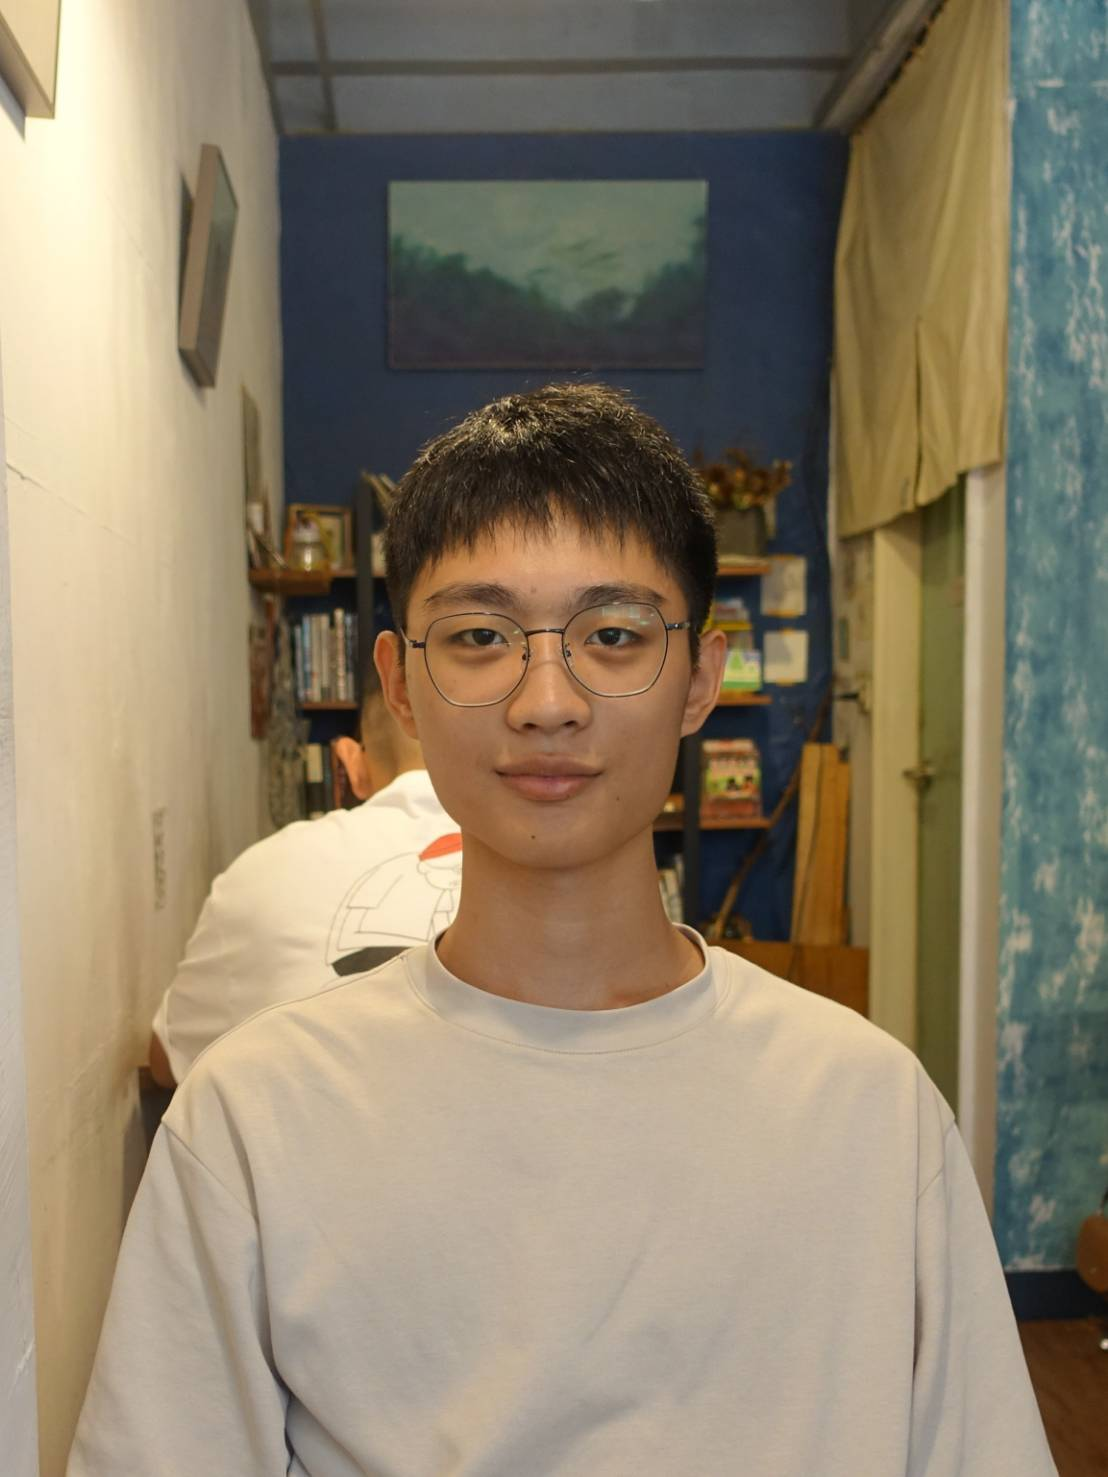
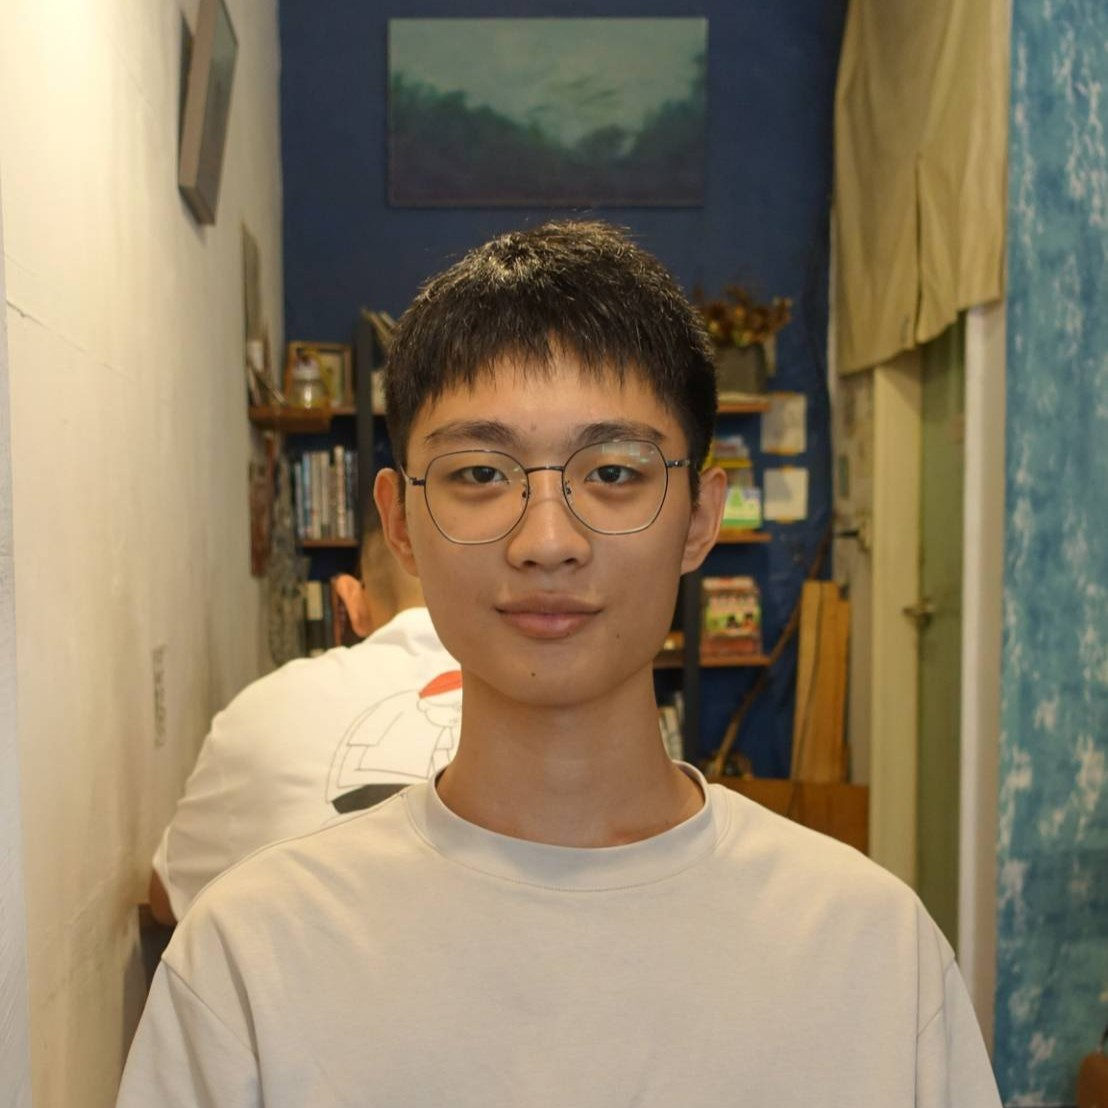
mem img height decides width

diff --git a/static/css/general.css b/static/css/general.css
@@ -283,12 +283,22 @@ h3 {
     background-position: center;
     background-repeat: no-repeat;
 
+    &::before {
+        content: '';
+        position: absolute;
+        inset: 0;
+        background-color: var(--main-bg-color);
+        opacity: 0;
+        transition: opacity 0.3s;
+        z-index: -1;
+    }
+
     & img {
         opacity: 0;
         transition: opacity 0.3s;
     }
 
-    &.lazy-img-loaded img {opacity: 1;}
+    &.lazy-img-loaded img, &.lazy-img-loaded::before {opacity: 1;}
 }
 
 .display-none {display: none !important;}

diff --git a/static/css/style.css b/static/css/style.css
@@ -819,6 +819,17 @@
             }
         }
     }
+
+    &[who='M'], &[who='S'] {
+        .mem-img {
+            background-size: auto 100%;
+
+            & img {
+                height: calc((1 + tan(var(--content-skew))) * 100%);
+                width: auto;
+            }
+        }
+    }
 }
 
 /* research */
